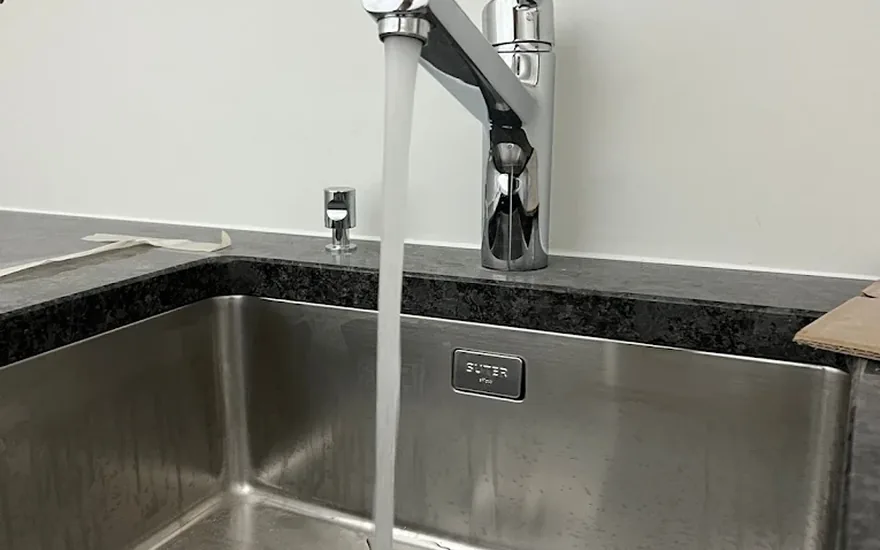
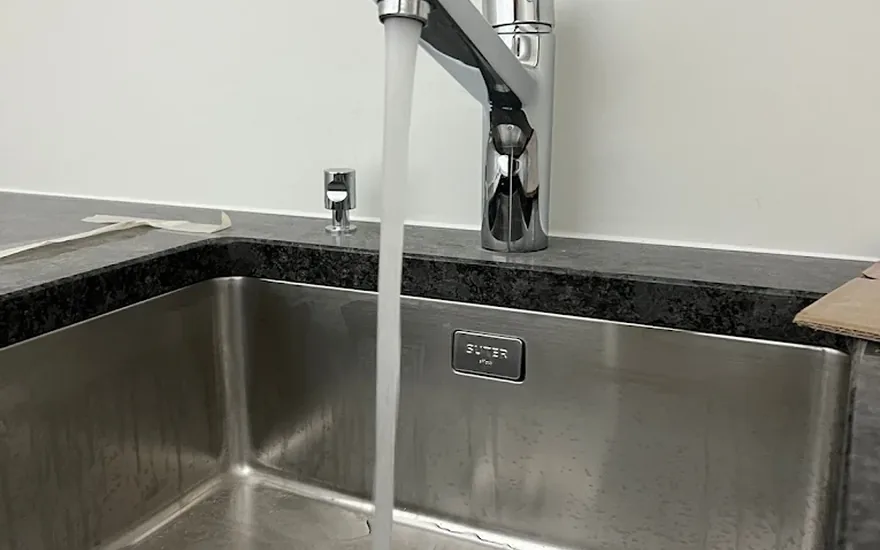
Photos de prestations responsives, zone élargie, titre « sanitaire »
- Chaque photo de prestation a désormais deux fichiers, servis via <picture> :
  crop 16:10 pour le desktop et crop 4:3 pour le mobile. Les ratios des
  fichiers correspondent exactement à ceux des boîtes CSS, donc object-fit
  ne recadre plus rien — les appareils sanitaires étaient auparavant coupés
  sur téléphone. Cadrages verticaux retouchés un par un.
- Zone d'intervention élargie : Écublens, Lausanne et toute la région
  lausannoise (18 communes) au lieu du seul Ouest lausannois. Mise à jour
  du titre, du texte, des puces, de la FAQ, du pied de page, des métadonnées
  et de areaServed dans le JSON-LD.
- Titre principal : « Votre plombier à Écublens » devient
  « Votre sanitaire à Écublens ».

diff --git a/index.html b/index.html
@@ -4,7 +4,7 @@
 <meta charset="utf-8">
 <meta name="viewport" content="width=device-width, initial-scale=1, viewport-fit=cover">
 <title>M-SDK Sanitaire Sàrl — Plombier & dépannage sanitaire à Écublens (VD)</title>
-<meta name="description" content="Plombier à Écublens : dépannage sanitaire, installation, rénovation de salle de bain et chauffage. Devis gratuit, intervention rapide dans tout l'Ouest lausannois. 5,0 ★ sur Google. ☎ 079 128 87 78">
+<meta name="description" content="Plombier à Écublens : dépannage sanitaire, installation, rénovation de salle de bain et chauffage. Devis gratuit, intervention rapide à Lausanne et dans toute la région. 5,0 ★ sur Google. ☎ 079 128 87 78">
 <meta name="theme-color" content="#1b2559">
 <link rel="canonical" href="https://welcometothenextlevel.github.io/msdk-sanitaire/">
 <link rel="icon" href="favicon.svg" type="image/svg+xml">
@@ -14,7 +14,7 @@
 <meta property="og:locale" content="fr_CH">
 <meta property="og:site_name" content="M-SDK Sanitaire Sàrl">
 <meta property="og:title" content="M-SDK Sanitaire Sàrl — Plombier & dépannage à Écublens (VD)">
-<meta property="og:description" content="Dépannage sanitaire, installation, rénovation de salle de bain et chauffage à Écublens et dans l'Ouest lausannois. Devis gratuit. 5,0 ★ sur Google.">
+<meta property="og:description" content="Dépannage sanitaire, installation, rénovation de salle de bain et chauffage à Écublens, à Lausanne et dans toute la région. Devis gratuit. 5,0 ★ sur Google.">
 <meta property="og:image" content="https://welcometothenextlevel.github.io/msdk-sanitaire/img/hero-wide.webp">
 <meta name="twitter:card" content="summary_large_image">
 
@@ -67,7 +67,7 @@
           <span><b>5,0</b> sur Google · 8 avis clients</span>
         </a>
 
-        <h1>Votre plombier à Écublens,<br><span class="accent">sans mauvaise surprise.</span></h1>
+        <h1>Votre sanitaire à Écublens,<br><span class="accent">sans mauvaise surprise.</span></h1>
 
         <p class="hero__sub">
           Dépannage sanitaire, installation, rénovation de salle de bain et chauffage.
@@ -90,7 +90,7 @@
           <li class="trust__item"><div class="trust__k">5,0<span class="stars" style="font-size:.9rem" aria-hidden="true"> ★</span></div><div class="trust__v">8 avis Google vérifiés</div></li>
           <li class="trust__item"><div class="trust__k">Gratuit</div><div class="trust__v">Devis sans engagement</div></li>
           <li class="trust__item"><div class="trust__k">Sàrl</div><div class="trust__v">Au RC depuis&nbsp;2022</div></li>
-          <li class="trust__item"><div class="trust__k">Ouest&nbsp;VD</div><div class="trust__v">Écublens &amp; environs</div></li>
+          <li class="trust__item"><div class="trust__k">Lausanne</div><div class="trust__v">Écublens &amp; toute la région</div></li>
         </ul>
       </div>
 
@@ -125,7 +125,7 @@
         <p class="eyebrow">Nos prestations</p>
         <h2>Du robinet qui goutte à la salle de bain <span class="accent">entièrement refaite.</span></h2>
       </div>
-      <p class="lede">Installation, dépannage et entretien&nbsp;: nous couvrons l'ensemble du sanitaire et du chauffage pour les particuliers, les régies et les propriétaires de l'Ouest lausannois.</p>
+      <p class="lede">Installation, dépannage et entretien&nbsp;: nous couvrons l'ensemble du sanitaire et du chauffage pour les particuliers, les régies et les propriétaires de Lausanne et de sa région.</p>
     </div>
 
     <div class="services">
@@ -137,7 +137,7 @@
           <p>Fuite d'eau, canalisation bouchée, chasse qui coule, robinetterie défectueuse, boiler en panne. On identifie la cause, on vous annonce le prix, puis on répare.</p>
           <ul><li>Recherche de fuite</li><li>Débouchage</li><li>Chasse &amp; WC</li><li>Chauffe-eau</li></ul>
         </div>
-        <div class="svc__img"><img src="img/svc-depannage.webp" alt="Intervention de dépannage sanitaire sur une baignoire" loading="lazy" decoding="async" width="880" height="550"></div>
+        <div class="svc__img"><picture><source media="(min-width: 760px)" srcset="img/svc-depannage.webp" width="880" height="550"><img src="img/svc-depannage-m.webp" alt="Intervention de dépannage sanitaire sur une baignoire" loading="lazy" decoding="async" width="900" height="675"></picture></div>
       </article>
 
       <article class="svc reveal">
@@ -147,7 +147,7 @@
           <p>Pose complète d'appareils et de tuyauterie, dans le neuf comme en rénovation&nbsp;: WC suspendus, lavabos, douches, baignoires, colonnes et raccordements aux normes suisses.</p>
           <ul><li>WC suspendu</li><li>Douche à l'italienne</li><li>Baignoire</li><li>Tuyauterie</li></ul>
         </div>
-        <div class="svc__img"><img src="img/svc-installation.webp" alt="WC suspendu et meuble vasque installés par M-SDK Sanitaire" loading="lazy" decoding="async" width="880" height="550"></div>
+        <div class="svc__img"><picture><source media="(min-width: 760px)" srcset="img/svc-installation.webp" width="880" height="550"><img src="img/svc-installation-m.webp" alt="WC suspendu et meuble vasque installés par M-SDK Sanitaire" loading="lazy" decoding="async" width="900" height="675"></picture></div>
       </article>
 
       <article class="svc reveal">
@@ -157,7 +157,7 @@
           <p>Un projet clé en main&nbsp;: dépose de l'ancien, sanitaire, raccordements et pose des équipements. Vous suivez un seul interlocuteur du premier devis à la remise des clés.</p>
           <ul><li>Clé en main</li><li>Coordination</li><li>Choix du matériel</li><li>Délai annoncé</li></ul>
         </div>
-        <div class="svc__img"><img src="img/svc-renovation.webp" alt="Meuble vasque taupe avec vasque ronde à poser, rénovation de salle de bain" loading="lazy" decoding="async" width="880" height="550"></div>
+        <div class="svc__img"><picture><source media="(min-width: 760px)" srcset="img/svc-renovation.webp" width="880" height="550"><img src="img/svc-renovation-m.webp" alt="Meuble vasque taupe avec vasque ronde à poser, rénovation de salle de bain" loading="lazy" decoding="async" width="900" height="675"></picture></div>
       </article>
 
       <article class="svc reveal">
@@ -167,7 +167,7 @@
           <p>Installation, remplacement et entretien de radiateurs, sèche-serviettes et distribution de chaleur. Purge, mise en pression et contrôle de l'installation.</p>
           <ul><li>Radiateurs</li><li>Sèche-serviettes</li><li>Entretien</li><li>Dépannage</li></ul>
         </div>
-        <div class="svc__img"><img src="img/svc-chauffage.webp" alt="Sèche-serviettes installé dans une salle de bain à Écublens" loading="lazy" decoding="async" width="880" height="550"></div>
+        <div class="svc__img"><picture><source media="(min-width: 760px)" srcset="img/svc-chauffage.webp" width="880" height="550"><img src="img/svc-chauffage-m.webp" alt="Sèche-serviettes installé dans une salle de bain à Écublens" loading="lazy" decoding="async" width="900" height="675"></picture></div>
       </article>
 
       <article class="svc reveal">
@@ -177,7 +177,7 @@
           <p>Éviers, mitigeurs, siphons et raccordements d'électroménager. Remplacement à l'identique ou reprise complète de l'arrivée d'eau et de l'évacuation.</p>
           <ul><li>Évier inox</li><li>Mitigeur</li><li>Lave-vaisselle</li><li>Évacuation</li></ul>
         </div>
-        <div class="svc__img"><img src="img/svc-cuisine.webp" alt="Évier de cuisine en inox sous plan avec mitigeur, posé par M-SDK Sanitaire" loading="lazy" decoding="async" width="880" height="550"></div>
+        <div class="svc__img"><picture><source media="(min-width: 760px)" srcset="img/svc-cuisine.webp" width="880" height="550"><img src="img/svc-cuisine-m.webp" alt="Évier de cuisine en inox sous plan avec mitigeur, posé par M-SDK Sanitaire" loading="lazy" decoding="async" width="900" height="675"></picture></div>
       </article>
 
       <article class="svc reveal">
@@ -187,7 +187,7 @@
           <p>Détartrage de boiler, contrôle des groupes de sécurité, entretien de robinetterie et petits travaux préventifs&nbsp;— pour éviter la panne coûteuse.</p>
           <ul><li>Boiler</li><li>Groupe de sécurité</li><li>Robinetterie</li><li>Prévention</li></ul>
         </div>
-        <div class="svc__img"><img src="img/svc-entretien.webp" alt="Baignoire encastrée avec tablettes en verre, entretien sanitaire" loading="lazy" decoding="async" width="880" height="550"></div>
+        <div class="svc__img"><picture><source media="(min-width: 760px)" srcset="img/svc-entretien.webp" width="880" height="550"><img src="img/svc-entretien-m.webp" alt="Baignoire encastrée avec tablettes en verre, entretien sanitaire" loading="lazy" decoding="async" width="900" height="675"></picture></div>
       </article>
 
     </div>
@@ -372,15 +372,17 @@
   <div class="wrap zone">
     <div class="reveal">
       <p class="eyebrow">Zone d'intervention</p>
-      <h2>Écublens et tout <span class="accent">l'Ouest lausannois.</span></h2>
+      <h2>Écublens, Lausanne et <span class="accent">toute la région.</span></h2>
       <p class="lede" style="margin-top:20px">
-        Basés Route du Bois 59 à Écublens, nous intervenons dans un rayon court autour de notre atelier&nbsp;—
-        ce qui nous permet d'être rapidement sur place. Votre commune n'est pas dans la liste&nbsp;? Appelez, on vous le dira franchement.
+        Basés Route du Bois 59 à Écublens, nous intervenons à Lausanne et dans l'ensemble de la région
+        lausannoise, de Morges au Gros-de-Vaud. Votre commune n'est pas dans la liste&nbsp;? Appelez-nous, on vous le dira franchement.
       </p>
       <ul class="chips" role="list">
-        <li>Écublens</li><li>Chavannes-près-Renens</li><li>Renens</li><li>Crissier</li>
-        <li>Saint-Sulpice</li><li>Bussigny</li><li>Denges</li><li>Prilly</li>
-        <li>Lausanne</li><li>Villars-Sainte-Croix</li><li>Morges</li><li>Préverenges</li>
+        <li>Écublens</li><li>Lausanne</li><li>Renens</li><li>Chavannes-près-Renens</li>
+        <li>Crissier</li><li>Prilly</li><li>Pully</li><li>Épalinges</li>
+        <li>Le Mont-sur-Lausanne</li><li>Romanel-sur-Lausanne</li><li>Cheseaux</li><li>Bussigny</li>
+        <li>Villars-Sainte-Croix</li><li>Saint-Sulpice</li><li>Denges</li><li>Préverenges</li>
+        <li>Lonay</li><li>Morges</li>
       </ul>
       <div class="btn-row" style="margin-top:28px">
         <a class="btn btn--navy" href="https://maps.google.com/?cid=14311833848670993152" target="_blank" rel="noopener" data-track="maps">Ouvrir dans Google Maps</a>
@@ -528,7 +530,7 @@
       </details>
       <details>
         <summary>Dans quelles communes intervenez-vous&nbsp;?</summary>
-        <div class="faq__a">Principalement à Écublens et dans l'Ouest lausannois&nbsp;: Chavannes-près-Renens, Renens, Crissier, Saint-Sulpice, Bussigny, Denges, Prilly, Lausanne, Villars-Sainte-Croix, Morges et Préverenges. Si votre commune n'est pas listée, appelez-nous&nbsp;: nous vous répondrons franchement.</div>
+        <div class="faq__a">À Écublens, à Lausanne et dans toute la région lausannoise&nbsp;: Renens, Chavannes-près-Renens, Crissier, Prilly, Pully, Épalinges, Le Mont-sur-Lausanne, Romanel-sur-Lausanne, Cheseaux, Bussigny, Villars-Sainte-Croix, Saint-Sulpice, Denges, Préverenges, Lonay et Morges. Si votre commune n'est pas listée, appelez-nous&nbsp;: nous vous répondrons franchement.</div>
       </details>
       <details>
         <summary>Prenez-vous en charge une rénovation complète de salle de bain&nbsp;?</summary>
@@ -557,7 +559,7 @@
           <img src="img/mark.svg" alt="" width="36" height="45">
           <b>M-SDK Sanitaire Sàrl</b>
         </div>
-        <p>Entreprise sanitaire et chauffage établie à Écublens&nbsp;(VD). Dépannage, installation et rénovation dans tout l'Ouest lausannois.</p>
+        <p>Entreprise sanitaire et chauffage établie à Écublens&nbsp;(VD). Dépannage, installation et rénovation à Lausanne et dans toute la région.</p>
         <p style="margin-top:14px"><span class="stars" aria-hidden="true">★★★★★</span> <span style="color:#fff">5,0</span> · 8 avis Google</p>
       </div>
 
@@ -597,7 +599,7 @@
 
     <div class="footer__bar">
       <span>© <span id="year">2026</span> M-SDK Sanitaire Sàrl · CHE-323.718.742 · Écublens VD</span>
-      <span>Plombier · Sanitaire · Chauffage · Dépannage — Ouest lausannois</span>
+      <span>Plombier · Sanitaire · Chauffage · Dépannage — Lausanne &amp; région</span>
     </div>
   </div>
 </footer>
@@ -639,7 +641,7 @@
   "@id": "https://welcometothenextlevel.github.io/msdk-sanitaire/#business",
   "name": "M-SDK Sanitaire Sàrl",
   "alternateName": "M-SDK Sanitaire Sàrl — Sanitaire, Dépannage & Chauffage à Écublens",
-  "description": "Entreprise sanitaire et chauffage à Écublens (VD) : dépannage, installation sanitaire, rénovation de salle de bain et chauffage dans l'Ouest lausannois.",
+  "description": "Entreprise sanitaire et chauffage à Écublens (VD) : dépannage, installation sanitaire, rénovation de salle de bain et chauffage à Lausanne et dans toute la région lausannoise.",
   "url": "https://welcometothenextlevel.github.io/msdk-sanitaire/",
   "telephone": "+41791288778",
   "email": "m.sdksanitaire@gmail.com",
@@ -665,12 +667,15 @@
     "opens": "07:30", "closes": "17:00"
   }],
   "areaServed": [
-    {"@type":"City","name":"Écublens"},{"@type":"City","name":"Chavannes-près-Renens"},
-    {"@type":"City","name":"Renens"},{"@type":"City","name":"Crissier"},
-    {"@type":"City","name":"Saint-Sulpice"},{"@type":"City","name":"Bussigny"},
-    {"@type":"City","name":"Denges"},{"@type":"City","name":"Prilly"},
-    {"@type":"City","name":"Lausanne"},{"@type":"City","name":"Villars-Sainte-Croix"},
-    {"@type":"City","name":"Morges"},{"@type":"City","name":"Préverenges"}
+    {"@type":"City","name":"Écublens"},{"@type":"City","name":"Lausanne"},
+    {"@type":"City","name":"Renens"},{"@type":"City","name":"Chavannes-près-Renens"},
+    {"@type":"City","name":"Crissier"},{"@type":"City","name":"Prilly"},
+    {"@type":"City","name":"Pully"},{"@type":"City","name":"Épalinges"},
+    {"@type":"City","name":"Le Mont-sur-Lausanne"},{"@type":"City","name":"Romanel-sur-Lausanne"},
+    {"@type":"City","name":"Cheseaux-sur-Lausanne"},{"@type":"City","name":"Bussigny"},
+    {"@type":"City","name":"Villars-Sainte-Croix"},{"@type":"City","name":"Saint-Sulpice"},
+    {"@type":"City","name":"Denges"},{"@type":"City","name":"Préverenges"},
+    {"@type":"City","name":"Lonay"},{"@type":"City","name":"Morges"}
   ],
   "aggregateRating": {
     "@type": "AggregateRating",
@@ -702,7 +707,7 @@
   "mainEntity": [
     {"@type":"Question","name":"Le devis est-il vraiment gratuit ?","acceptedAnswer":{"@type":"Answer","text":"Oui. L'établissement du devis est gratuit et sans engagement, que vous acceptiez les travaux ou non. Vous recevez un prix écrit avant que quoi que ce soit ne commence."}},
     {"@type":"Question","name":"Intervenez-vous en cas de fuite ou de panne urgente ?","acceptedAnswer":{"@type":"Answer","text":"Oui, le dépannage fait partie de notre cœur de métier. Appelez le 079 128 87 78 pendant nos heures d'ouverture (lundi à samedi, 7h30–17h00) : nous vous dirons immédiatement si nous pouvons passer, et quand."}},
-    {"@type":"Question","name":"Dans quelles communes intervenez-vous ?","acceptedAnswer":{"@type":"Answer","text":"Principalement à Écublens et dans l'Ouest lausannois : Chavannes-près-Renens, Renens, Crissier, Saint-Sulpice, Bussigny, Denges, Prilly, Lausanne, Villars-Sainte-Croix, Morges et Préverenges."}},
+    {"@type":"Question","name":"Dans quelles communes intervenez-vous ?","acceptedAnswer":{"@type":"Answer","text":"À Écublens, à Lausanne et dans toute la région lausannoise : Renens, Chavannes-près-Renens, Crissier, Prilly, Pully, Épalinges, Le Mont-sur-Lausanne, Romanel-sur-Lausanne, Cheseaux, Bussigny, Villars-Sainte-Croix, Saint-Sulpice, Denges, Préverenges, Lonay et Morges."}},
     {"@type":"Question","name":"Prenez-vous en charge une rénovation complète de salle de bain ?","acceptedAnswer":{"@type":"Answer","text":"Oui. Nous gérons la dépose de l'ancien, l'ensemble du sanitaire, les raccordements et la pose des équipements, avec un seul interlocuteur du premier rendez-vous à la fin du chantier."}},
     {"@type":"Question","name":"Travaillez-vous pour des régies et des propriétaires ?","acceptedAnswer":{"@type":"Answer","text":"Oui, aussi bien pour des particuliers que pour des régies, des propriétaires et des gérances immobilières de la région."}},
     {"@type":"Question","name":"Quel est le moyen le plus rapide de vous joindre ?","acceptedAnswer":{"@type":"Answer","text":"Le téléphone au 079 128 87 78. WhatsApp fonctionne très bien aussi, surtout si vous pouvez envoyer une photo du problème."}}

diff --git a/css/style.css b/css/style.css
@@ -433,6 +433,7 @@ p { text-wrap: pretty; }
   color: var(--stone-500);
   font-variant-numeric: tabular-nums;
 }
+.svc__img picture { display: block; width: 100%; height: 100%; }
 .svc__img {
   aspect-ratio: 4 / 3;
   overflow: hidden;

diff --git a/README.md b/README.md
@@ -1,7 +1,7 @@
 # M-SDK Sanitaire Sàrl — site vitrine
 
 Site one-page (français) pour **M-SDK Sanitaire Sàrl**, entreprise sanitaire et chauffage
-à Écublens (VD). Objectif : générer des appels et des demandes de devis,
+à Écublens (VD), actif à Lausanne et dans toute la région. Objectif : générer des appels et des demandes de devis,
 notamment depuis Google Ads sur mobile.
 
 **En ligne :** https://welcometothenextlevel.github.io/msdk-sanitaire/
@@ -16,6 +16,9 @@ index.html        page complète + données structurées JSON-LD
 css/style.css     design system et styles
 js/main.js        visionneuse photos, révélations au scroll, validation du formulaire
 img/              photos de chantier optimisées (WebP) + logo
+                  `svc-*.webp` = crop 16:10 desktop · `svc-*-m.webp` = crop 4:3 mobile
+                  (servis via <picture>, chaque fichier a exactement le ratio
+                  de sa boîte CSS — aucun recadrage par object-fit)
 ```
 
 ## Conversion
